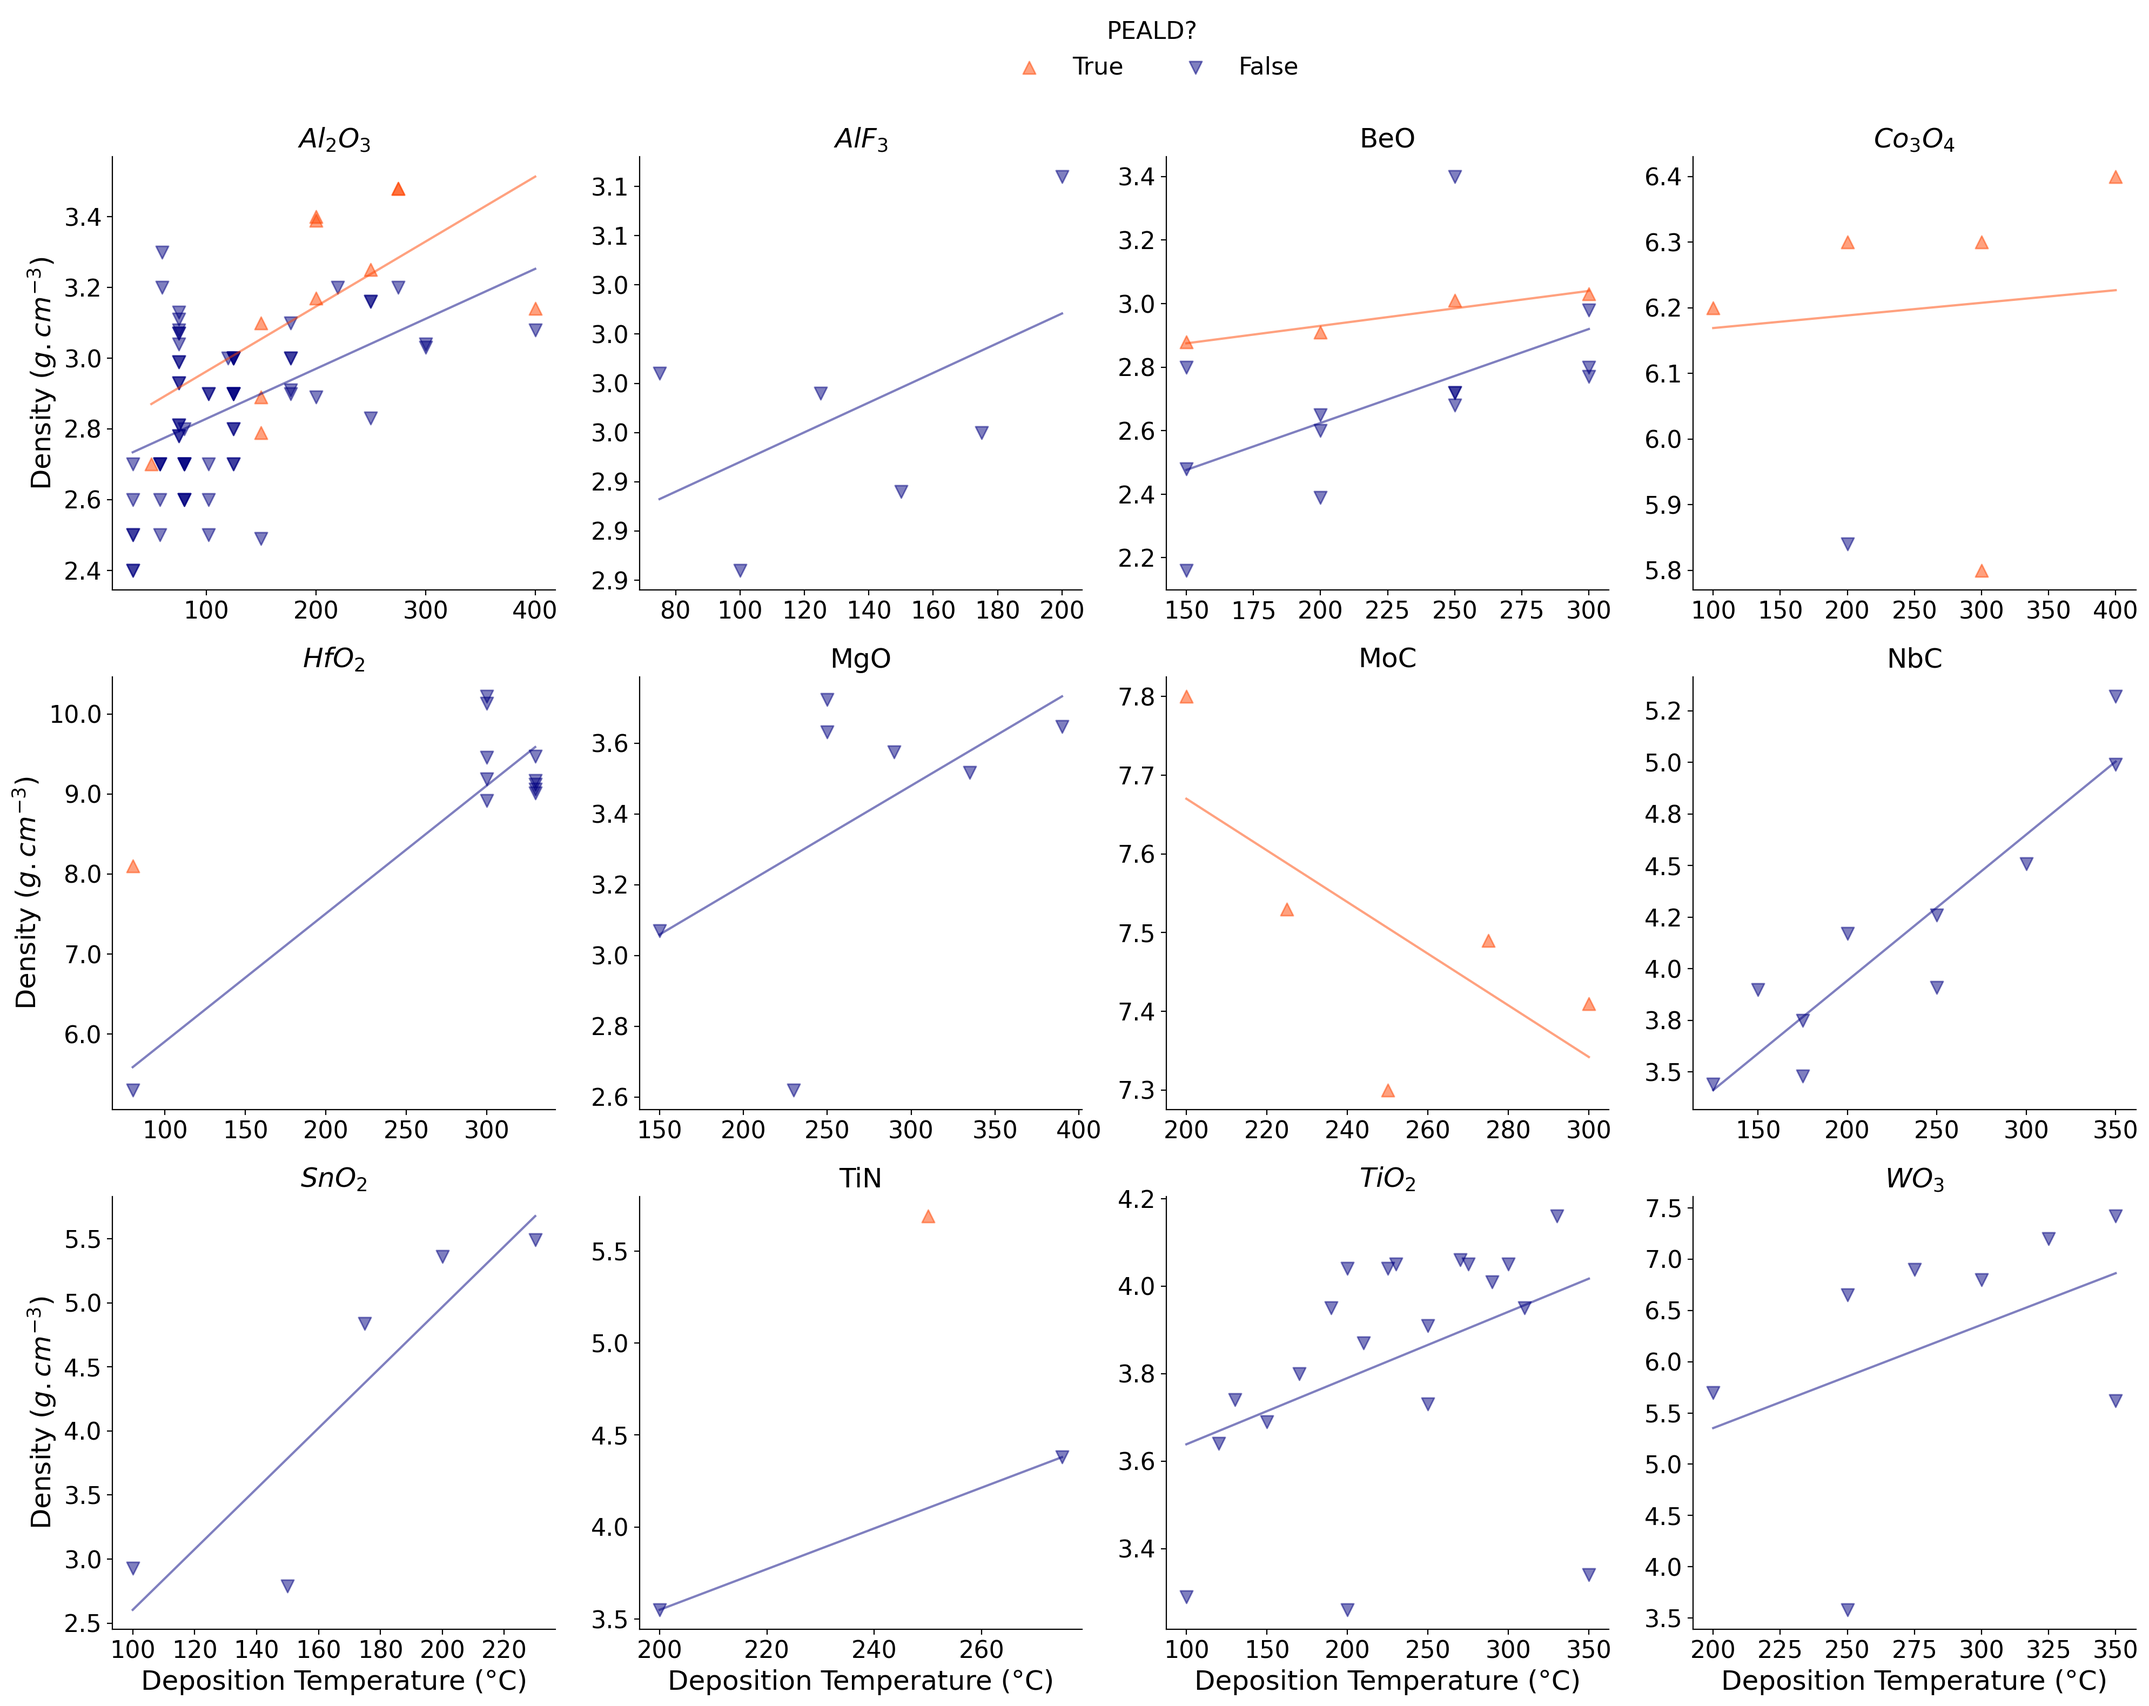
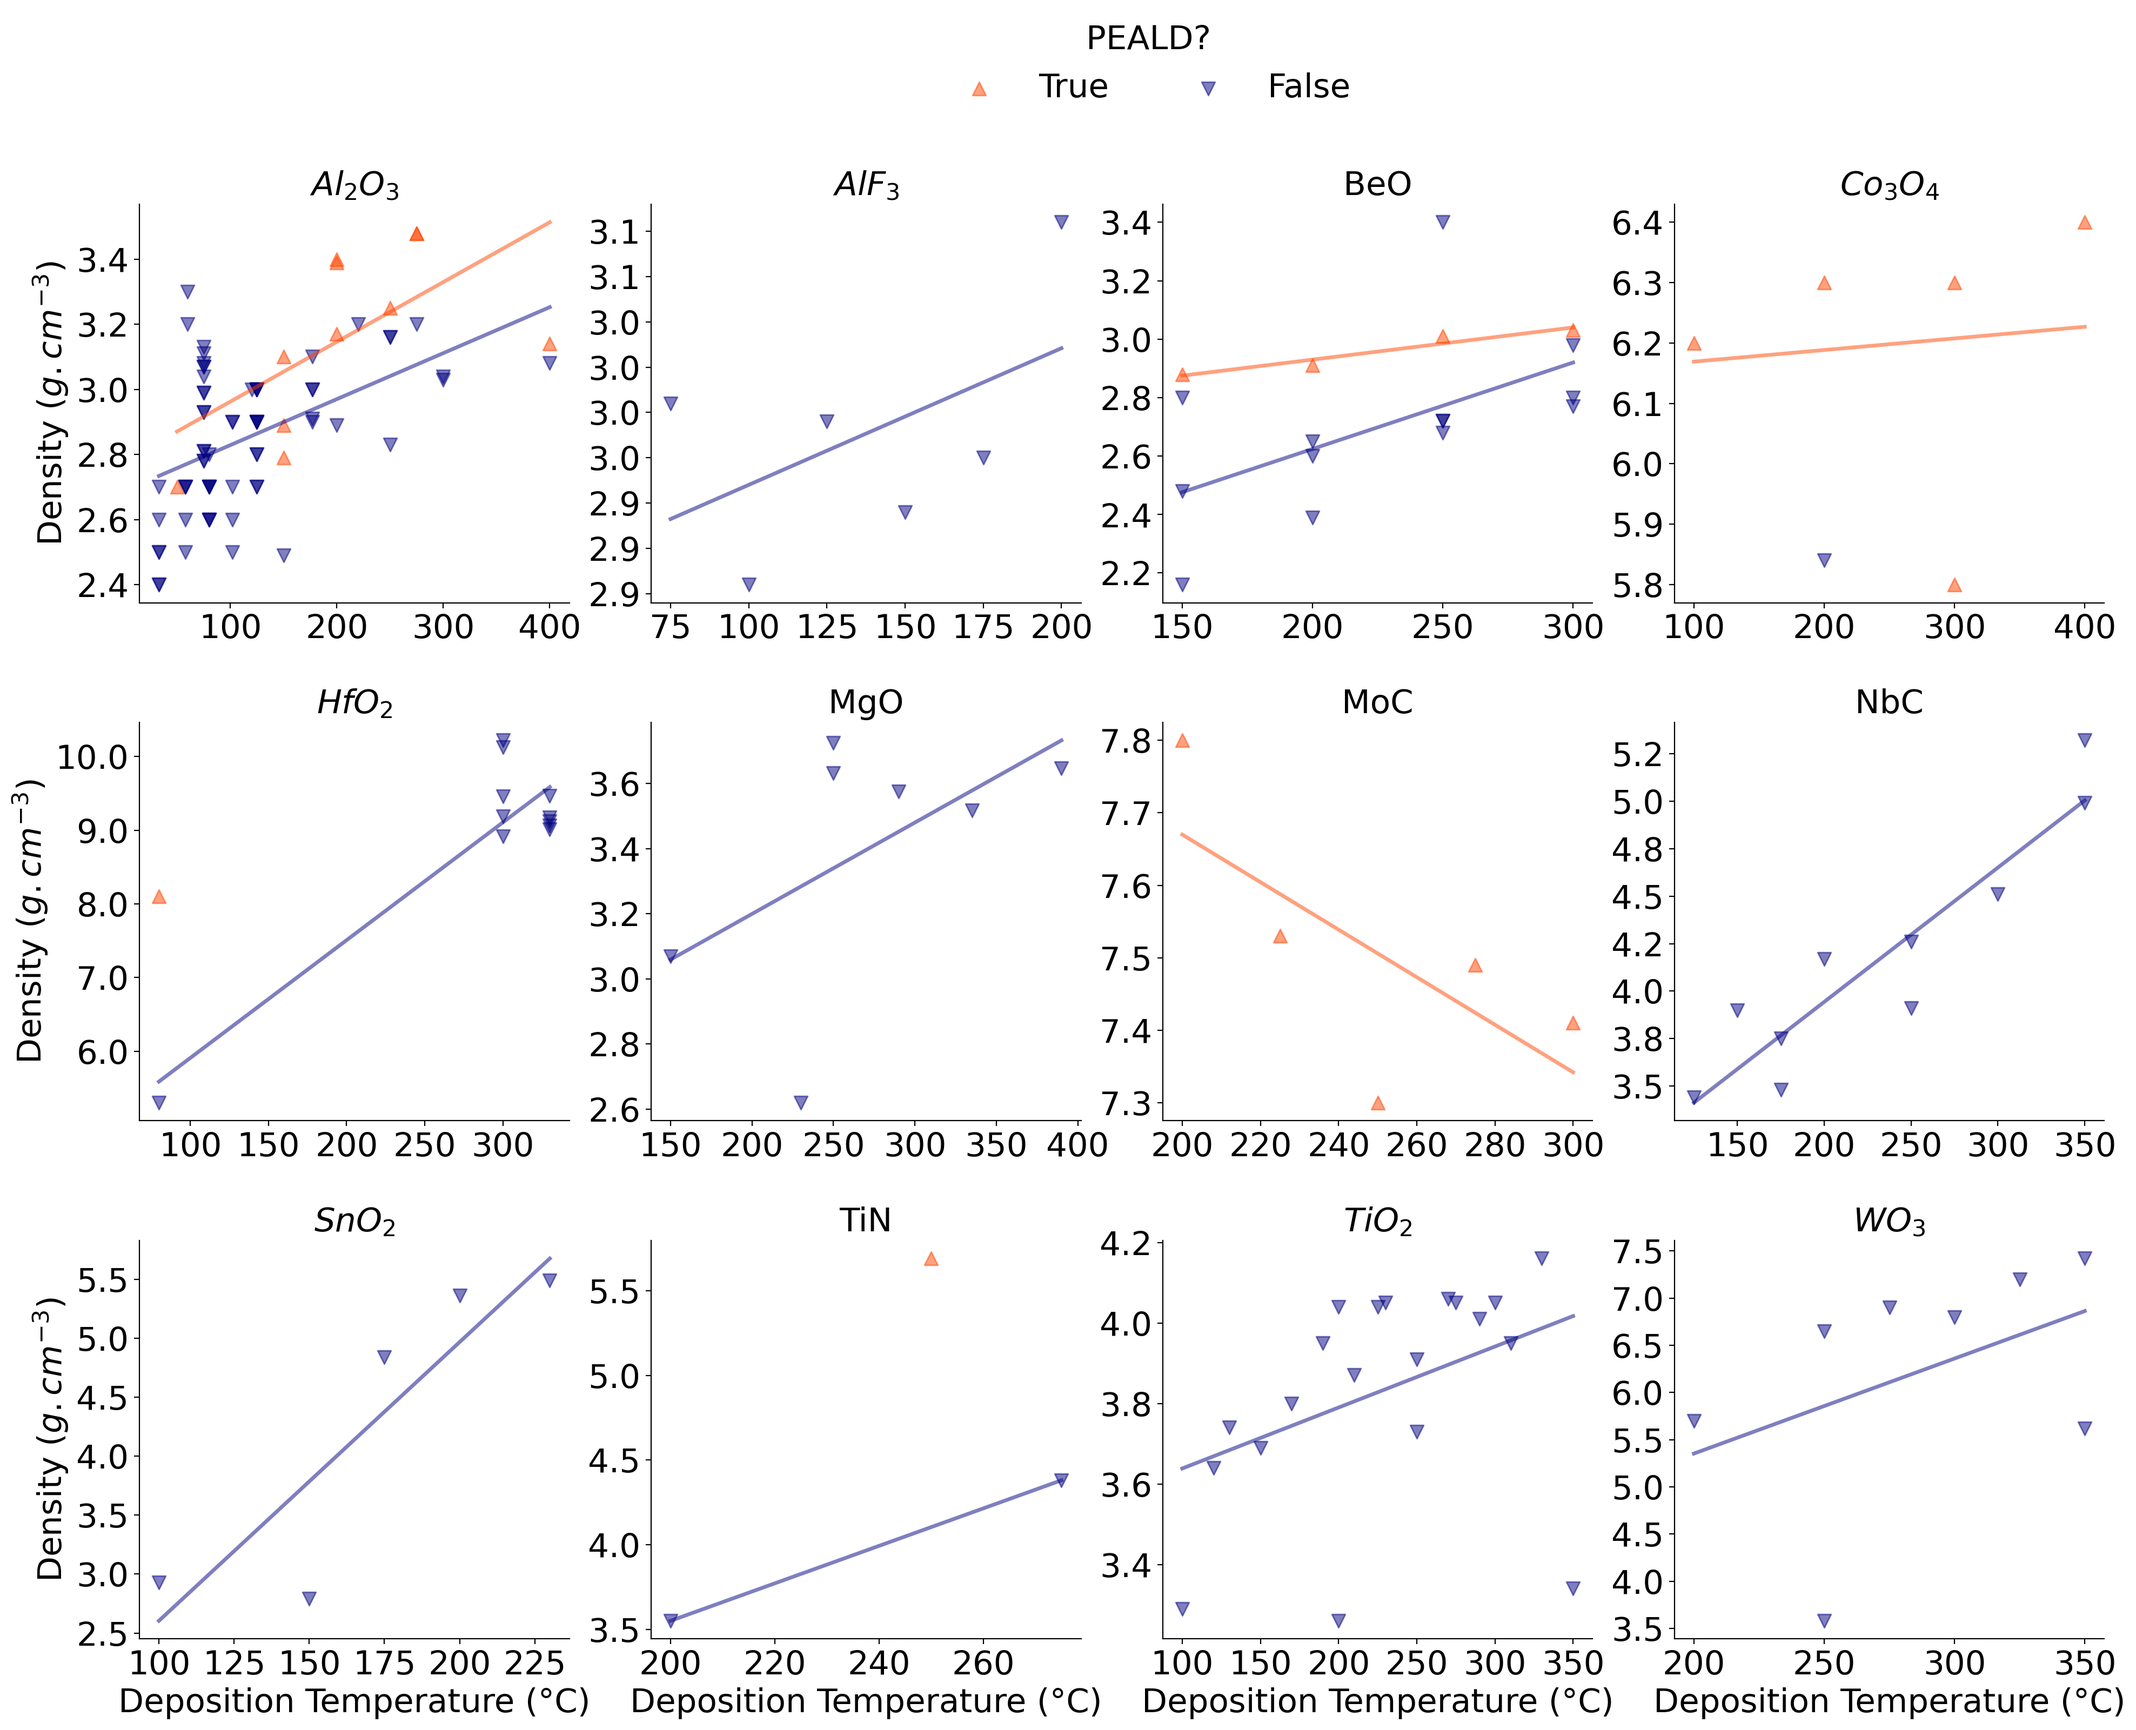
plot1 plot2 visual updates

diff --git a/scripts/plot_ald.py b/scripts/plot_ald.py
@@ -101,9 +101,9 @@ def get_line_plot(df, x, y, z):
     #     "xtick.color" : 'silver', "ytick.color" : 'silver'})
     sns.reset_orig()
 
-    SMALL_SIZE = 12
-    MEDIUM_SIZE = 14
-    BIGGER_SIZE = 16
+    SMALL_SIZE = 14
+    MEDIUM_SIZE = 16
+    BIGGER_SIZE = 18
 
     plt.rc('font', size=SMALL_SIZE)          # controls default text sizes
     plt.rc('axes', titlesize=SMALL_SIZE)     # fontsize of the axes title
@@ -168,22 +168,23 @@ def get_fit_plot(df, x, y, z, hue):
     # sns.scatterplot(data=df, x=X, y=Y, hue=Z) # scatter plot coloured by material
     # sns.regplot(data=df, x=X, y=Y, ci=None) # scatter plot with linear regression
     
-    
+    sns.reset_orig()
     # sns.set(font_scale = 1.50)
     df_plot = df.loc[:,[x,y,z,hue]]
 
     df_plot[z] = df_plot[z].apply(daz.create_latex_labels)
 
-    SMALL_SIZE = 16
-    MEDIUM_SIZE = 18
-    BIGGER_SIZE = 20
+    SMALL_SIZE = 22
+    MEDIUM_SIZE = 26
+    BIGGER_SIZE = 28
 
     plt.rc('font', size=SMALL_SIZE)          # controls default text sizes
     plt.rc('axes', titlesize=SMALL_SIZE)     # fontsize of the axes title
-    plt.rc('axes', labelsize=MEDIUM_SIZE)    # fontsize of the x and y labels
+    plt.rc('axes', labelsize=SMALL_SIZE)    # fontsize of the x and y labels
     plt.rc('xtick', labelsize=SMALL_SIZE)    # fontsize of the tick labels
     plt.rc('ytick', labelsize=SMALL_SIZE)    # fontsize of the tick labels
     plt.rc('legend', fontsize=SMALL_SIZE)    # legend fontsize
+    # plt.rc('legend', titlesize=MEDIUM_SIZE)    # legend fontsize
     plt.rc('figure', titlesize=BIGGER_SIZE)  # fontsize of the figure title
 
 
@@ -191,8 +192,8 @@ def get_fit_plot(df, x, y, z, hue):
     fig = sns.lmplot(data=df_plot, x=x, y=y, col=z, col_wrap=4, ci=None, 
         hue=hue, hue_order=[True, False], markers=["^", "v"], palette=["orangered", "navy"],
         facet_kws = dict(sharex=False, sharey=False), 
-        scatter_kws={"s": 70, "alpha":0.5}, 
-        line_kws={"lw":1.5, "alpha":0.5})
+        scatter_kws={"s": 80, "alpha":0.5}, 
+        line_kws={"lw":2.5, "alpha":0.5})
 
     
     # splot2 = sns.lmplot(data=df_plot, x=X, y=Y, hue=Z, ci=None, fit_reg=False, scatter_kws={"s": 10, "alpha":0.4}) # scatter plot with linear regression for each category Z 
@@ -206,6 +207,7 @@ def get_fit_plot(df, x, y, z, hue):
 
     # SET PLOT TITLE
     #  set title of each subplot to col value
+    # TODO: figure out how to change the fontsize
     fig.set_titles(col_template="{col_name}")
 
     # fix y axis sigfigs
@@ -219,7 +221,7 @@ def get_fit_plot(df, x, y, z, hue):
     sns.move_legend(fig, "lower center", bbox_to_anchor=(0.5, 1), ncol=2, frameon=False)
 
     # customize plot spacing and padding
-    plt.subplots_adjust(wspace = 0.19, hspace=0.2)
+    plt.subplots_adjust(wspace = 0.19, hspace=0.3)
     # plt.tight_layout()
     return fig
 
